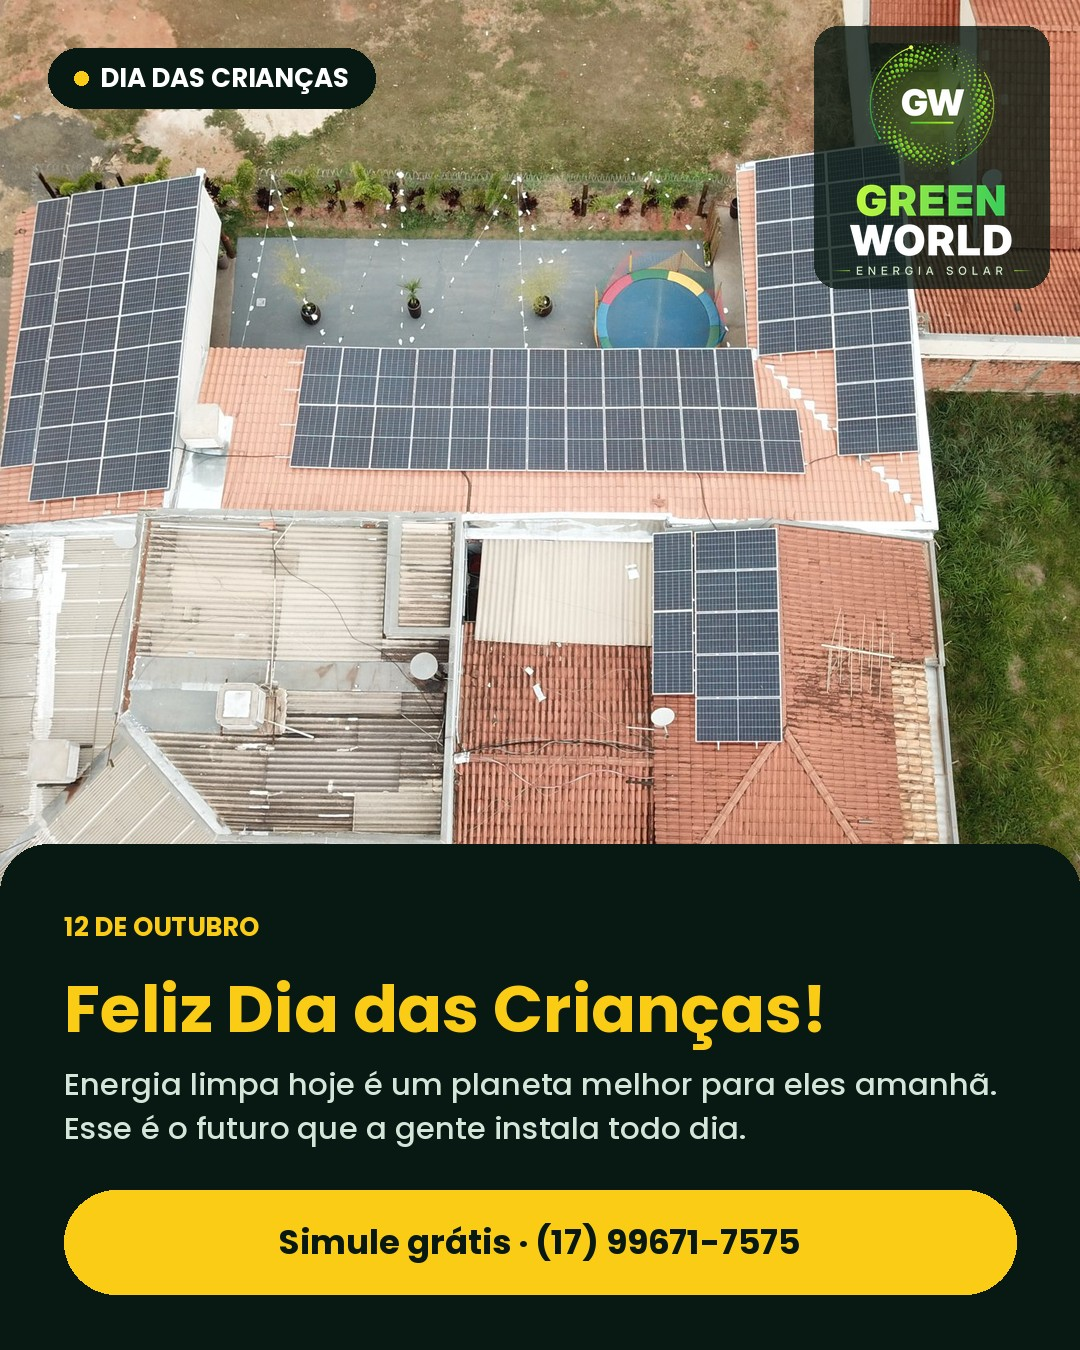
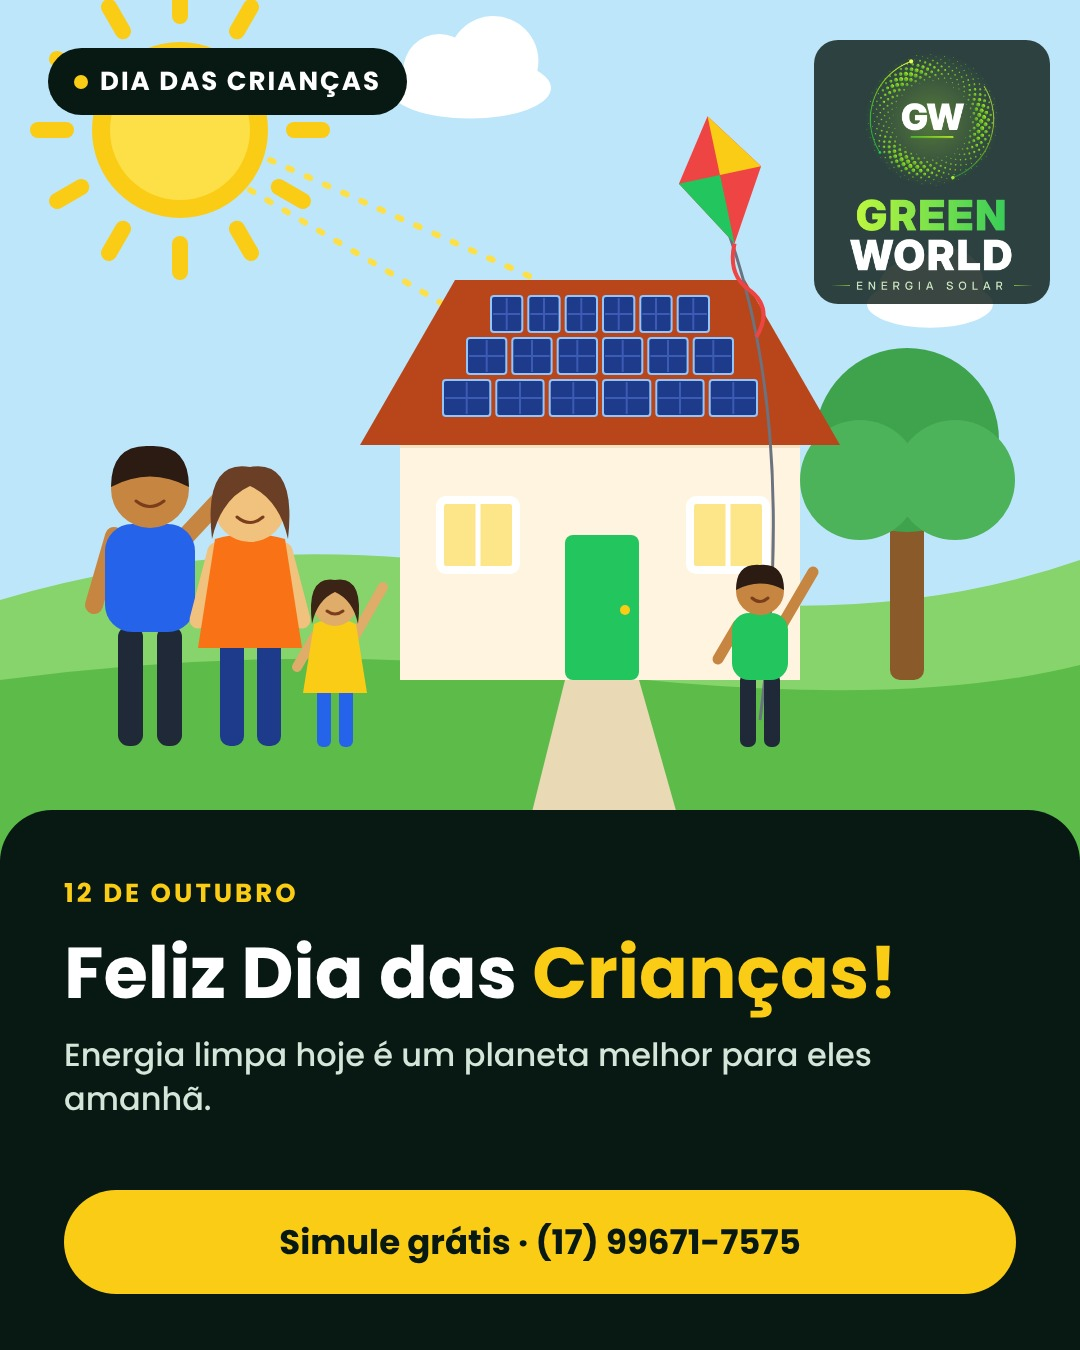
Dia das Criancas: ilustracao familia + casa solar
Claude-Session: https://claude.ai/code/session_01D5ZQK6a8hcQQRchwaRhvb5

diff --git a/posts/2026-10-12-criancas/ilustracao.py b/posts/2026-10-12-criancas/ilustracao.py
@@ -1,0 +1,171 @@
+"""Gera a arte do Dia das Criancas (ilustracao familia + casa com energia solar).
+Saidas: render HTML (feed/story) para PNG via Playwright e artboards .dc.html para o Claude Design."""
+import os, sys
+ROOT = '/home/claude/gw-posts'
+OUT = os.path.dirname(os.path.abspath(__file__))
+
+def person(x, ground, h, skin, shirt, pants, hair, arms='down', girl=False):
+    head = h * 0.13; bw = h * 0.30; bh = h * 0.36; lh = h * 0.40
+    top = ground - h
+    hy = top + head
+    by = hy + head * 0.9
+    ly = by + bh - 6
+    s = []
+    # legs
+    s.append(f'<rect x="{x-bw*0.36:.0f}" y="{ly:.0f}" width="{bw*0.28:.0f}" height="{lh:.0f}" rx="{bw*0.12:.0f}" fill="{pants}"/>')
+    s.append(f'<rect x="{x+bw*0.08:.0f}" y="{ly:.0f}" width="{bw*0.28:.0f}" height="{lh:.0f}" rx="{bw*0.12:.0f}" fill="{pants}"/>')
+    # arms
+    if arms == 'up':
+        s.append(f'<path d="M{x+bw*0.4:.0f} {by+12:.0f} L{x+bw*0.95:.0f} {by-h*0.22:.0f}" stroke="{skin}" stroke-width="{bw*0.2:.0f}" stroke-linecap="round"/>')
+        s.append(f'<path d="M{x-bw*0.4:.0f} {by+12:.0f} L{x-bw*0.75:.0f} {by+bh*0.7:.0f}" stroke="{skin}" stroke-width="{bw*0.2:.0f}" stroke-linecap="round"/>')
+    elif arms == 'wave':
+        s.append(f'<path d="M{x+bw*0.4:.0f} {by+12:.0f} L{x+bw*0.9:.0f} {by-h*0.12:.0f}" stroke="{skin}" stroke-width="{bw*0.2:.0f}" stroke-linecap="round"/>')
+        s.append(f'<path d="M{x-bw*0.4:.0f} {by+12:.0f} L{x-bw*0.62:.0f} {by+bh*0.75:.0f}" stroke="{skin}" stroke-width="{bw*0.2:.0f}" stroke-linecap="round"/>')
+    else:
+        for sgn in (-1, 1):
+            s.append(f'<path d="M{x+sgn*bw*0.4:.0f} {by+12:.0f} L{x+sgn*bw*0.62:.0f} {by+bh*0.8:.0f}" stroke="{skin}" stroke-width="{bw*0.2:.0f}" stroke-linecap="round"/>')
+    # body
+    if girl:
+        s.append(f'<path d="M{x-bw*0.42:.0f} {by:.0f} Q{x:.0f} {by-10:.0f} {x+bw*0.42:.0f} {by:.0f} L{x+bw*0.62:.0f} {by+bh+8:.0f} L{x-bw*0.62:.0f} {by+bh+8:.0f} Z" fill="{shirt}"/>')
+    else:
+        s.append(f'<rect x="{x-bw/2:.0f}" y="{by:.0f}" width="{bw:.0f}" height="{bh:.0f}" rx="{bw*0.3:.0f}" fill="{shirt}"/>')
+    # head + hair
+    s.append(f'<circle cx="{x:.0f}" cy="{hy:.0f}" r="{head:.0f}" fill="{skin}"/>')
+    if girl:
+        s.append(f'<path d="M{x-head*1.05:.0f} {hy+head*0.9:.0f} Q{x-head*1.3:.0f} {hy-head*1.3:.0f} {x:.0f} {hy-head*1.08:.0f} Q{x+head*1.3:.0f} {hy-head*1.3:.0f} {x+head*1.05:.0f} {hy+head*0.9:.0f} Q{x+head*0.8:.0f} {hy-head*0.2:.0f} {x:.0f} {hy-head*0.55:.0f} Q{x-head*0.8:.0f} {hy-head*0.2:.0f} {x-head*1.05:.0f} {hy+head*0.9:.0f} Z" fill="{hair}"/>')
+    else:
+        s.append(f'<path d="M{x-head:.0f} {hy-head*0.05:.0f} Q{x-head:.0f} {hy-head*1.15:.0f} {x:.0f} {hy-head*1.1:.0f} Q{x+head:.0f} {hy-head*1.15:.0f} {x+head:.0f} {hy-head*0.05:.0f} Q{x:.0f} {hy-head*0.6:.0f} {x-head:.0f} {hy-head*0.05:.0f} Z" fill="{hair}"/>')
+    # smile
+    s.append(f'<path d="M{x-head*0.35:.0f} {hy+head*0.3:.0f} Q{x:.0f} {hy+head*0.6:.0f} {x+head*0.35:.0f} {hy+head*0.3:.0f}" stroke="#7A3E1D" stroke-width="3" fill="none" stroke-linecap="round"/>')
+    return '\n'.join(s)
+
+def scene():
+    W, H = 1080, 900
+    g = []
+    g.append(f'<rect width="{W}" height="{H}" fill="#BEE6FB"/>')
+    # sun
+    g.append('<g transform="translate(180 170)">' + ''.join(
+        f'<rect x="-8" y="-150" width="16" height="44" rx="8" fill="#FACC15" transform="rotate({a})"/>' for a in range(0, 360, 30)) +
+        '<circle r="88" fill="#FACC15"/><circle r="70" fill="#FDE047"/></g>')
+    # clouds
+    for cx, cy, sc in [(470, 110, 0.9), (930, 330, 0.7)]:
+        g.append(f'<g transform="translate({cx} {cy}) scale({sc})" fill="#FFFFFF"><ellipse cx="0" cy="20" rx="90" ry="34"/><circle cx="-34" cy="0" r="40"/><circle cx="26" cy="-10" r="50"/></g>')
+    # sun rays hitting panels (light beams)
+    g.append('<path d="M250 230 L470 360" stroke="#FDE047" stroke-width="6" stroke-dasharray="4 16" stroke-linecap="round"/>')
+    g.append('<path d="M270 200 L560 330" stroke="#FDE047" stroke-width="6" stroke-dasharray="4 16" stroke-linecap="round"/>')
+    # hills
+    g.append('<path d="M0 640 Q270 560 560 620 T1080 600 L1080 900 L0 900 Z" fill="#86D46B"/>')
+    g.append('<path d="M0 720 Q300 680 600 715 T1080 705 L1080 900 L0 900 Z" fill="#5DBB4A"/>')
+    # tree
+    g.append('<rect x="890" y="520" width="34" height="200" rx="10" fill="#8B5A2B"/><circle cx="907" cy="480" r="92" fill="#3FA34D"/><circle cx="860" cy="520" r="60" fill="#4CB35A"/><circle cx="955" cy="520" r="60" fill="#4CB35A"/>')
+    # house
+    g.append('<rect x="400" y="470" width="400" height="250" fill="#FFF4E0"/>')
+    g.append('<rect x="400" y="470" width="400" height="18" fill="#F3E2C3"/>')
+    g.append('<polygon points="360,485 455,320 745,320 840,485" fill="#B9461B"/>')
+    # solar panels on roof plane
+    rows = [(336, 476, 724), (378, 452, 748), (420, 428, 772)]
+    for y, x0, x1 in rows:
+        n = 6; gap = 6; w = (x1 - x0 - 30 - gap * (n - 1)) / n
+        for i in range(n):
+            x = x0 + 15 + i * (w + gap)
+            g.append(f'<rect x="{x:.1f}" y="{y}" width="{w:.1f}" height="36" rx="3" fill="#1E3A8A" stroke="#93C5FD" stroke-width="2"/>')
+            g.append(f'<line x1="{x+w/2:.1f}" y1="{y+2}" x2="{x+w/2:.1f}" y2="{y+34}" stroke="#3B5BB5" stroke-width="2"/>')
+            g.append(f'<line x1="{x+2:.1f}" y1="{y+18}" x2="{x+w-2:.1f}" y2="{y+18}" stroke="#3B5BB5" stroke-width="2"/>')
+    # door + windows
+    g.append('<rect x="565" y="575" width="74" height="145" rx="8" fill="#22C55E"/><circle cx="625" cy="650" r="5" fill="#FACC15"/>')
+    for wx in (440, 690):
+        g.append(f'<rect x="{wx}" y="540" width="76" height="70" rx="6" fill="#FDE68A" stroke="#FFFFFF" stroke-width="8"/><line x1="{wx+38}" y1="540" x2="{wx+38}" y2="610" stroke="#FFFFFF" stroke-width="5"/>')
+    # path
+    g.append('<path d="M565 720 L639 720 L690 900 L520 900 Z" fill="#E9D9B4"/>')
+    # kite
+    g.append('<path d="M760 760 Q800 450 720 250" stroke="#6B7280" stroke-width="3" fill="none"/>')
+    g.append('<g transform="translate(720 215) rotate(-12)"><polygon points="0,-60 42,0 0,70 -42,0" fill="#EF4444"/><polygon points="0,-60 42,0 0,0" fill="#FACC15"/><polygon points="0,0 -42,0 0,70" fill="#22C55E"/><path d="M0 70 q-14 30 6 50 q18 22 -4 46" stroke="#EF4444" stroke-width="4" fill="none"/></g>')
+    # family (front-left) + kid with kite (right)
+    g.append(person(150, 790, 300, '#C68642', '#2563EB', '#1F2937', '#2B1B12', arms='wave'))
+    g.append(person(250, 790, 280, '#F1C27D', '#F97316', '#1E3A8A', '#6B3E26', girl=True))
+    g.append(person(335, 792, 170, '#E0AC69', '#FACC15', '#2563EB', '#3B2416', arms='up', girl=True))
+    g.append(person(760, 792, 185, '#C68642', '#22C55E', '#1F2937', '#2B1B12', arms='up'))
+    return f'<svg viewBox="0 0 {W} {H}" width="1080" height="{H}" xmlns="http://www.w3.org/2000/svg" role="img" aria-label="Ilustração de família em frente a uma casa com placas solares, criança soltando pipa">' + '\n'.join(g) + '</svg>'
+
+SVG = scene()
+
+def body(W, H, logo_src, story):
+    pad = 72 if story else 64
+    top = 250 if story else 40
+    scene_h = 1150 if story else 860
+    panel_top = scene_h - 50
+    bottom_pad = 260 if story else 56
+    title = 84 if story else 72
+    sub = 36 if story else 32
+    return f'''<div style="width: {W}px; height: {H}px; position: relative; overflow: hidden; background: #081812; font-family: Poppins, sans-serif; color: #FFFFFF">
+<div style="position: absolute; top: 0; left: 0; width: 1080px; height: {scene_h}px; overflow: hidden; background: #BEE6FB">
+<div style="position: absolute; left: 0; bottom: 0; width: 1080px; height: 900px; transform-origin: bottom center; transform: none">{SVG}</div>
+</div>
+<div style="position: absolute; top: {top+8}px; left: 48px; display: flex; align-items: center; gap: 12px; background: #081812; padding: 14px 26px; border-radius: 999px">
+<div style="width: 14px; height: 14px; border-radius: 999px; background: #FACC15"></div>
+<span style="font-size: 26px; font-weight: 700; letter-spacing: 2px">DIA DAS CRIANÇAS</span>
+</div>
+<div style="position: absolute; top: {top}px; right: 30px; background: rgba(8,24,18,0.8); border-radius: 24px; padding: 14px 18px">
+<img src="{logo_src}" alt="GW Fotovoltaica" style="display: block; width: {220 if story else 200}px; height: auto">
+</div>
+<div style="position: absolute; top: {panel_top}px; left: 0; width: 1080px; height: {H-panel_top+60}px; background: #081812; border-radius: 52px 52px 0 0; box-sizing: border-box; padding: {pad}px {pad}px 0; display: flex; flex-direction: column; gap: 22px">
+<span style="font-size: 26px; font-weight: 700; letter-spacing: 3px; color: #FACC15">12 DE OUTUBRO</span>
+<h1 style="margin: 0; font-size: {title}px; line-height: 1.05; font-weight: 700">Feliz Dia das <span style="color: #FACC15">Crianças!</span></h1>
+<p style="margin: 0; font-size: {sub}px; line-height: 1.4; color: #D4E6DA">Energia limpa hoje é um planeta melhor para eles amanhã.</p>
+</div>
+<div style="position: absolute; left: {pad}px; right: {pad}px; bottom: {bottom_pad}px; height: 104px; border-radius: 999px; background: #FACC15; color: #081812; display: flex; align-items: center; justify-content: center">
+<span style="font-size: 34px; font-weight: 700">Simule grátis · (17) 99671-7575</span>
+</div>
+</div>'''
+
+FONTS = f'''@font-face{{font-family:Poppins;font-weight:500;src:url(file://{ROOT}/assets/fonts/Poppins-Medium.ttf)}}
+@font-face{{font-family:Poppins;font-weight:700;src:url(file://{ROOT}/assets/fonts/Poppins-Bold.ttf)}}'''
+
+def plain(W, H, story):
+    return f'<!doctype html><html><head><meta charset="utf-8"><style>{FONTS} body{{margin:0}}</style></head><body>{body(W,H,"file://"+ROOT+"/assets/logo_branco.png",story)}</body></html>'
+
+def dc(W, H, story, logo_blob):
+    return f'''<!doctype html>
+<html lang="pt-BR">
+<head>
+<meta charset="utf-8">
+<title>Dia das Crianças — {'Story' if story else 'Feed'}</title>
+<script src="./support.js"></script>
+</head>
+<body>
+<x-dc>
+<helmet>
+<link rel="stylesheet" href="https://fonts.googleapis.com/css2?family=Poppins:wght@500;700&amp;display=swap">
+<style>
+body{{margin:0}}
+a{{color:#22C55E}}a:hover{{color:#FACC15}}
+</style>
+</helmet>
+{body(W,H,logo_blob,story)}
+</x-dc>
+<script type="text/x-dc" data-dc-script data-props='{{"$preview":{{"width":{W},"height":{H}}}}}'>
+class Component extends DCLogic {{
+renderVals() {{
+return {{}};
+}}
+}}
+</script>
+</body>
+</html>
+'''
+
+if __name__ == '__main__':
+    from playwright.sync_api import sync_playwright
+    dest = sys.argv[1]
+    os.makedirs(dest, exist_ok=True)
+    with sync_playwright() as p:
+        b = p.chromium.launch()
+        for name, W, H, story in [('arte_feed', 1080, 1350, False), ('arte_story', 1080, 1920, True)]:
+            f = os.path.join(OUT, name + '.html'); open(f, 'w').write(plain(W, H, story))
+            pg = b.new_page(viewport={'width': W, 'height': H})
+            pg.goto('file://' + f); pg.wait_for_timeout(400)
+            pg.screenshot(path=os.path.join(dest, name + '.png'))
+        b.close()
+    d = os.path.join(OUT, '..', 'design', 'project')
+    open(os.path.join(d, 'Criancas.dc.html'), 'w').write(dc(1080, 1350, False, '/_blob/a24c0336c5905f4c40fca1973e728f60'))
+    open(os.path.join(d, 'CriancasStory.dc.html'), 'w').write(dc(1080, 1920, True, '/_blob/a24c0336c5905f4c40fca1973e728f60'))
